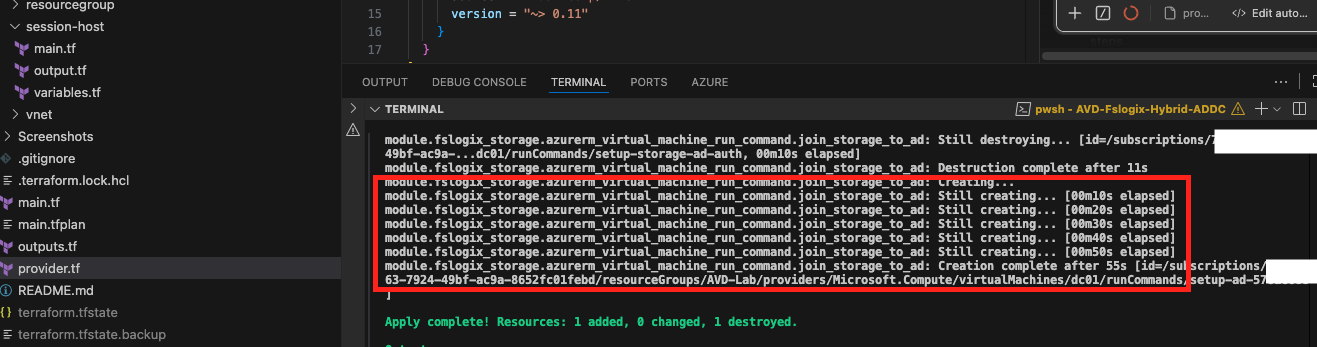
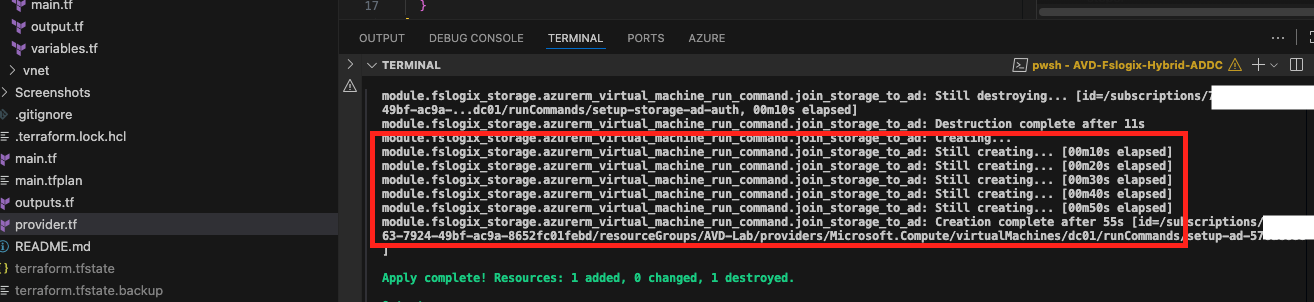
update the fslogix resize script screenshot

diff --git a/README.md b/README.md
@@ -1,4 +1,4 @@
-# AVD + FSLogix + Hybrid Azure AD Join — Phase 1 & 2
+# AVD + FSLogix + Hybrid Azure AD Join 
 
 > Fully automated Azure Virtual Desktop lab with FSLogix profile containers, AD DS authentication for Azure Files, and Hybrid Azure AD Join. Zero manual steps — everything deployed via Terraform and PowerShell Run Commands.
 
@@ -274,7 +274,7 @@ terraform apply
 
 ---
 
-## AVD Identity Models — Three Phases
+## AVD Identity Models 
 
 | Phase | Model | DC Required | Entra Connect | Azure Files Auth | Repo |
 |-------|-------|-------------|---------------|-----------------|------|